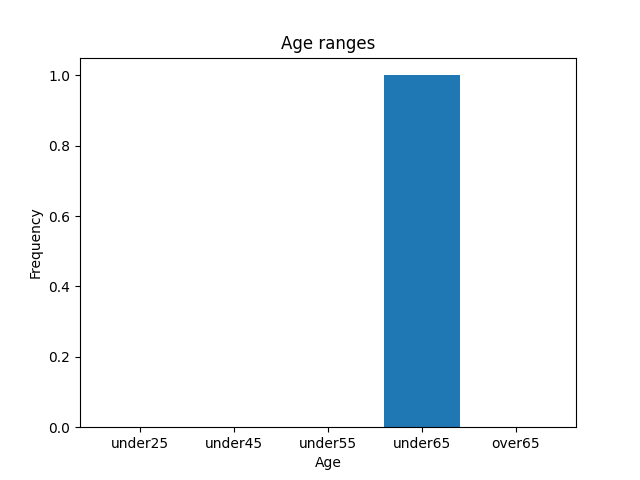
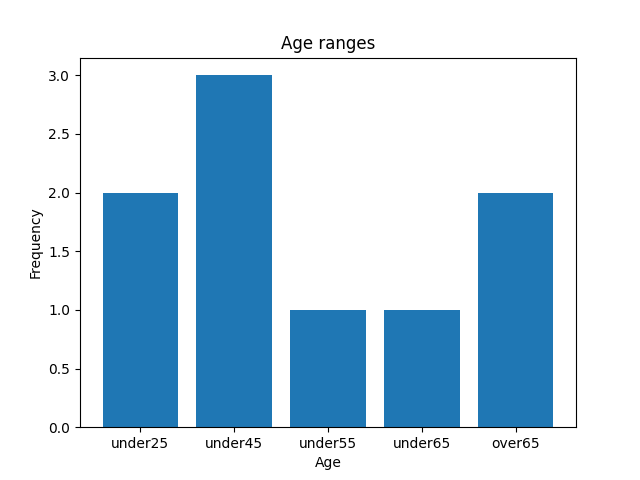
Add files via upload

diff --git a/Code/MainDB/DatabaseServer.py b/Code/MainDB/DatabaseServer.py
@@ -193,56 +193,88 @@ class DatabaseServer(object):
 
 		for row in result:
 			if row[0]!=0:
-				statistics["age"]={"under25":row[0]}
+				try:
+					statistics["age"]["under25"]=row[0]
+				except:
+					statistics["age"]={"under25":row[0]}
+					
 
 		self.cursor.execute(queryage2)
 		result=self.cursor.fetchall()
 
 		for row in result:
 			if row[0]!=0:
-				statistics["age"]={"under45":row[0]}
+				try:
+					statistics["age"]["under45"]=row[0]
+				except:
+					statistics["age"]={"under45":row[0]}
+
 
 		self.cursor.execute(queryage3)
 		result=self.cursor.fetchall()
 
 		for row in result:
 			if row[0]!=0:
-				statistics["age"]={"under55":row[0]}
+				try:
+					statistics["age"]["under55"]=row[0]
+				except:
+					statistics["age"]={"under55":row[0]}
+
 
 		self.cursor.execute(queryage4)
 		result=self.cursor.fetchall()
 
 		for row in result:
 			if row[0]!=0:
-				statistics["age"]={"under65":row[0]}
+				try:
+					statistics["age"]["under65"]=row[0]
+				except:
+					statistics["age"]={"under65":row[0]}
+
 
 		self.cursor.execute(queryage5)
 		result=self.cursor.fetchall()
 
 		for row in result:
 			if row[0]!=0:
-				statistics["age"]={"over65":row[0]}
+				try:
+					statistics["age"]["over65"]=row[0]
+				except:
+					statistics["age"]={"over65":row[0]}
+
 
 		self.cursor.execute(query2)
 		result=self.cursor.fetchall()
 
 		for row in result:
 			if row[0]!=0:
-				statistics["unit"]={row[0]:row[1]}
+				try:
+					statistics["unit"][row[0]]=row[1]
+				except:
+					statistics["unit"]={row[0]:row[1]}
+
 
 		self.cursor.execute(query3)
 		result=self.cursor.fetchall()
 
 		for row in result:
 			if row[0]!=0:
-				statistics["gender"]={row[0]:row[1]}
+				try:
+					statistics["gender"][row[0]]=row[1]
+				except:
+					statistics["gender"]={row[0]:row[1]}
+
 
 		self.cursor.execute(query4)
 		result=self.cursor.fetchall()
 
 		for row in result:
 			if row[0]!=0:
-				statistics["code"]={row[0]:row[1]}
+				try:
+					statistics["code"][row[0]]=row[1]
+				except:
+					statistics["code"]={row[0]:row[1]}
+
 
 		self.cursor.execute(query5)
 		result=self.cursor.fetchall()
@@ -255,6 +287,7 @@ class DatabaseServer(object):
 		self.cursor.execute(queryupdate)
 		self.conn.commit()
 
+		print(statistics)
 		return json.dumps(statistics)
 
 	def closeconn(self):

diff --git a/Code/PostProcessing/StatisticProcessingUnit.py b/Code/PostProcessing/StatisticProcessingUnit.py
@@ -98,17 +98,22 @@ class StatisticProcessingUnit(object):
 				except:
 					pass
 
-				for key in self.statistics["unit"]:
+				for key in self.dataToProcess["unit"]:
 					try:
 						self.statistics["unit"][key]=(self.statistics["unit"][key]*self.recall/(self.recall+1))+self.dataToProcess["unit"][key]/(self.recall+1)
 					except:
-						pass
-				for key in self.statistics["gender"]:
+						if(len(list(self.statistics["unit"].keys()))==0):
+							self.statistics["unit"]={key:self.dataToProcess["unit"][key]/(self.recall+1)}
+						else:
+							list(self.statistics["unit"].keys()).append(key)
+							self.statistics["unit"][key]=self.dataToProcess["unit"][key]/(self.recall+1)
+
+				for key in self.dataToProcess["gender"]:
 					try:
 						self.statistics["gender"][key]=(self.statistics["gender"][key]*self.recall/(self.recall+1))+self.dataToProcess["gender"][key]/(self.recall+1)
 					except:
 						pass
-				for key in self.statistics["code"]:
+				for key in self.dataToProcess["code"]:
 					try:
 						self.statistics["code"][key]=(self.statistics["code"][key]*self.recall/(self.recall+1))+self.dataToProcess["code"][key]/(self.recall+1)
 					except:

diff --git a/Code/telegram/TelegramTriage.py b/Code/telegram/TelegramTriage.py
@@ -245,6 +245,8 @@ class botTriage(object):
 			r=requests.get("http://"+self.ip_others["statistic_server"][0]+":"+self.ip_others["statistic_server"][1])
 			stat=r.json()
 
+			print(stat)
+
 			labels=[]
 			heights=[]
 			for key in stat["age"].keys():
@@ -268,7 +270,8 @@ class botTriage(object):
 				labels.append(key)
 				heights.append(stat["unit"][key])
 
-			fig2=plt.bar(labels,heights)
+			fig2=plt.figure()
+			plt.bar(labels,heights)
 			plt.title("Unit occupancies")
 			plt.xlabel("Units")
 			plt.ylabel("Frequency")

diff --git a/Code/telegram/TelegramHospitalChannel.py b/Code/telegram/TelegramHospitalChannel.py
@@ -52,7 +52,7 @@ class TelegramHospitalChannel(object):
 		self.ip_others=self.result.json()[1]
 		
 	def send_message(self, message):
-		self.bot.sendMessage(self.my_data["telegram_hospital"]["chatId"],message)
+		self.bot.sendMessage(self.my_data["telegram_hospital"]["chatId"],message,parse_mode="Markdown")
 
 	def on_chat_message(self, msg):
 		content_type, chat_type, chat_id = telepot.glance(msg)

diff --git a/Code/telegram/ChannelRESTSub.py b/Code/telegram/ChannelRESTSub.py
@@ -33,7 +33,7 @@ class ChannelRESTMQTT(object):
 
 	'''RECEIVING MESSAGE TO PUBLISH IN THE CHANNEL'''
 	def myOnMessageReceived (self, paho_mqtt , userdata, msg):
-		t.send_message("NEW QUEUE")
+	
 		message=json.loads(msg.payload)
 		sending=""
 		for key in list(message.keys()):
